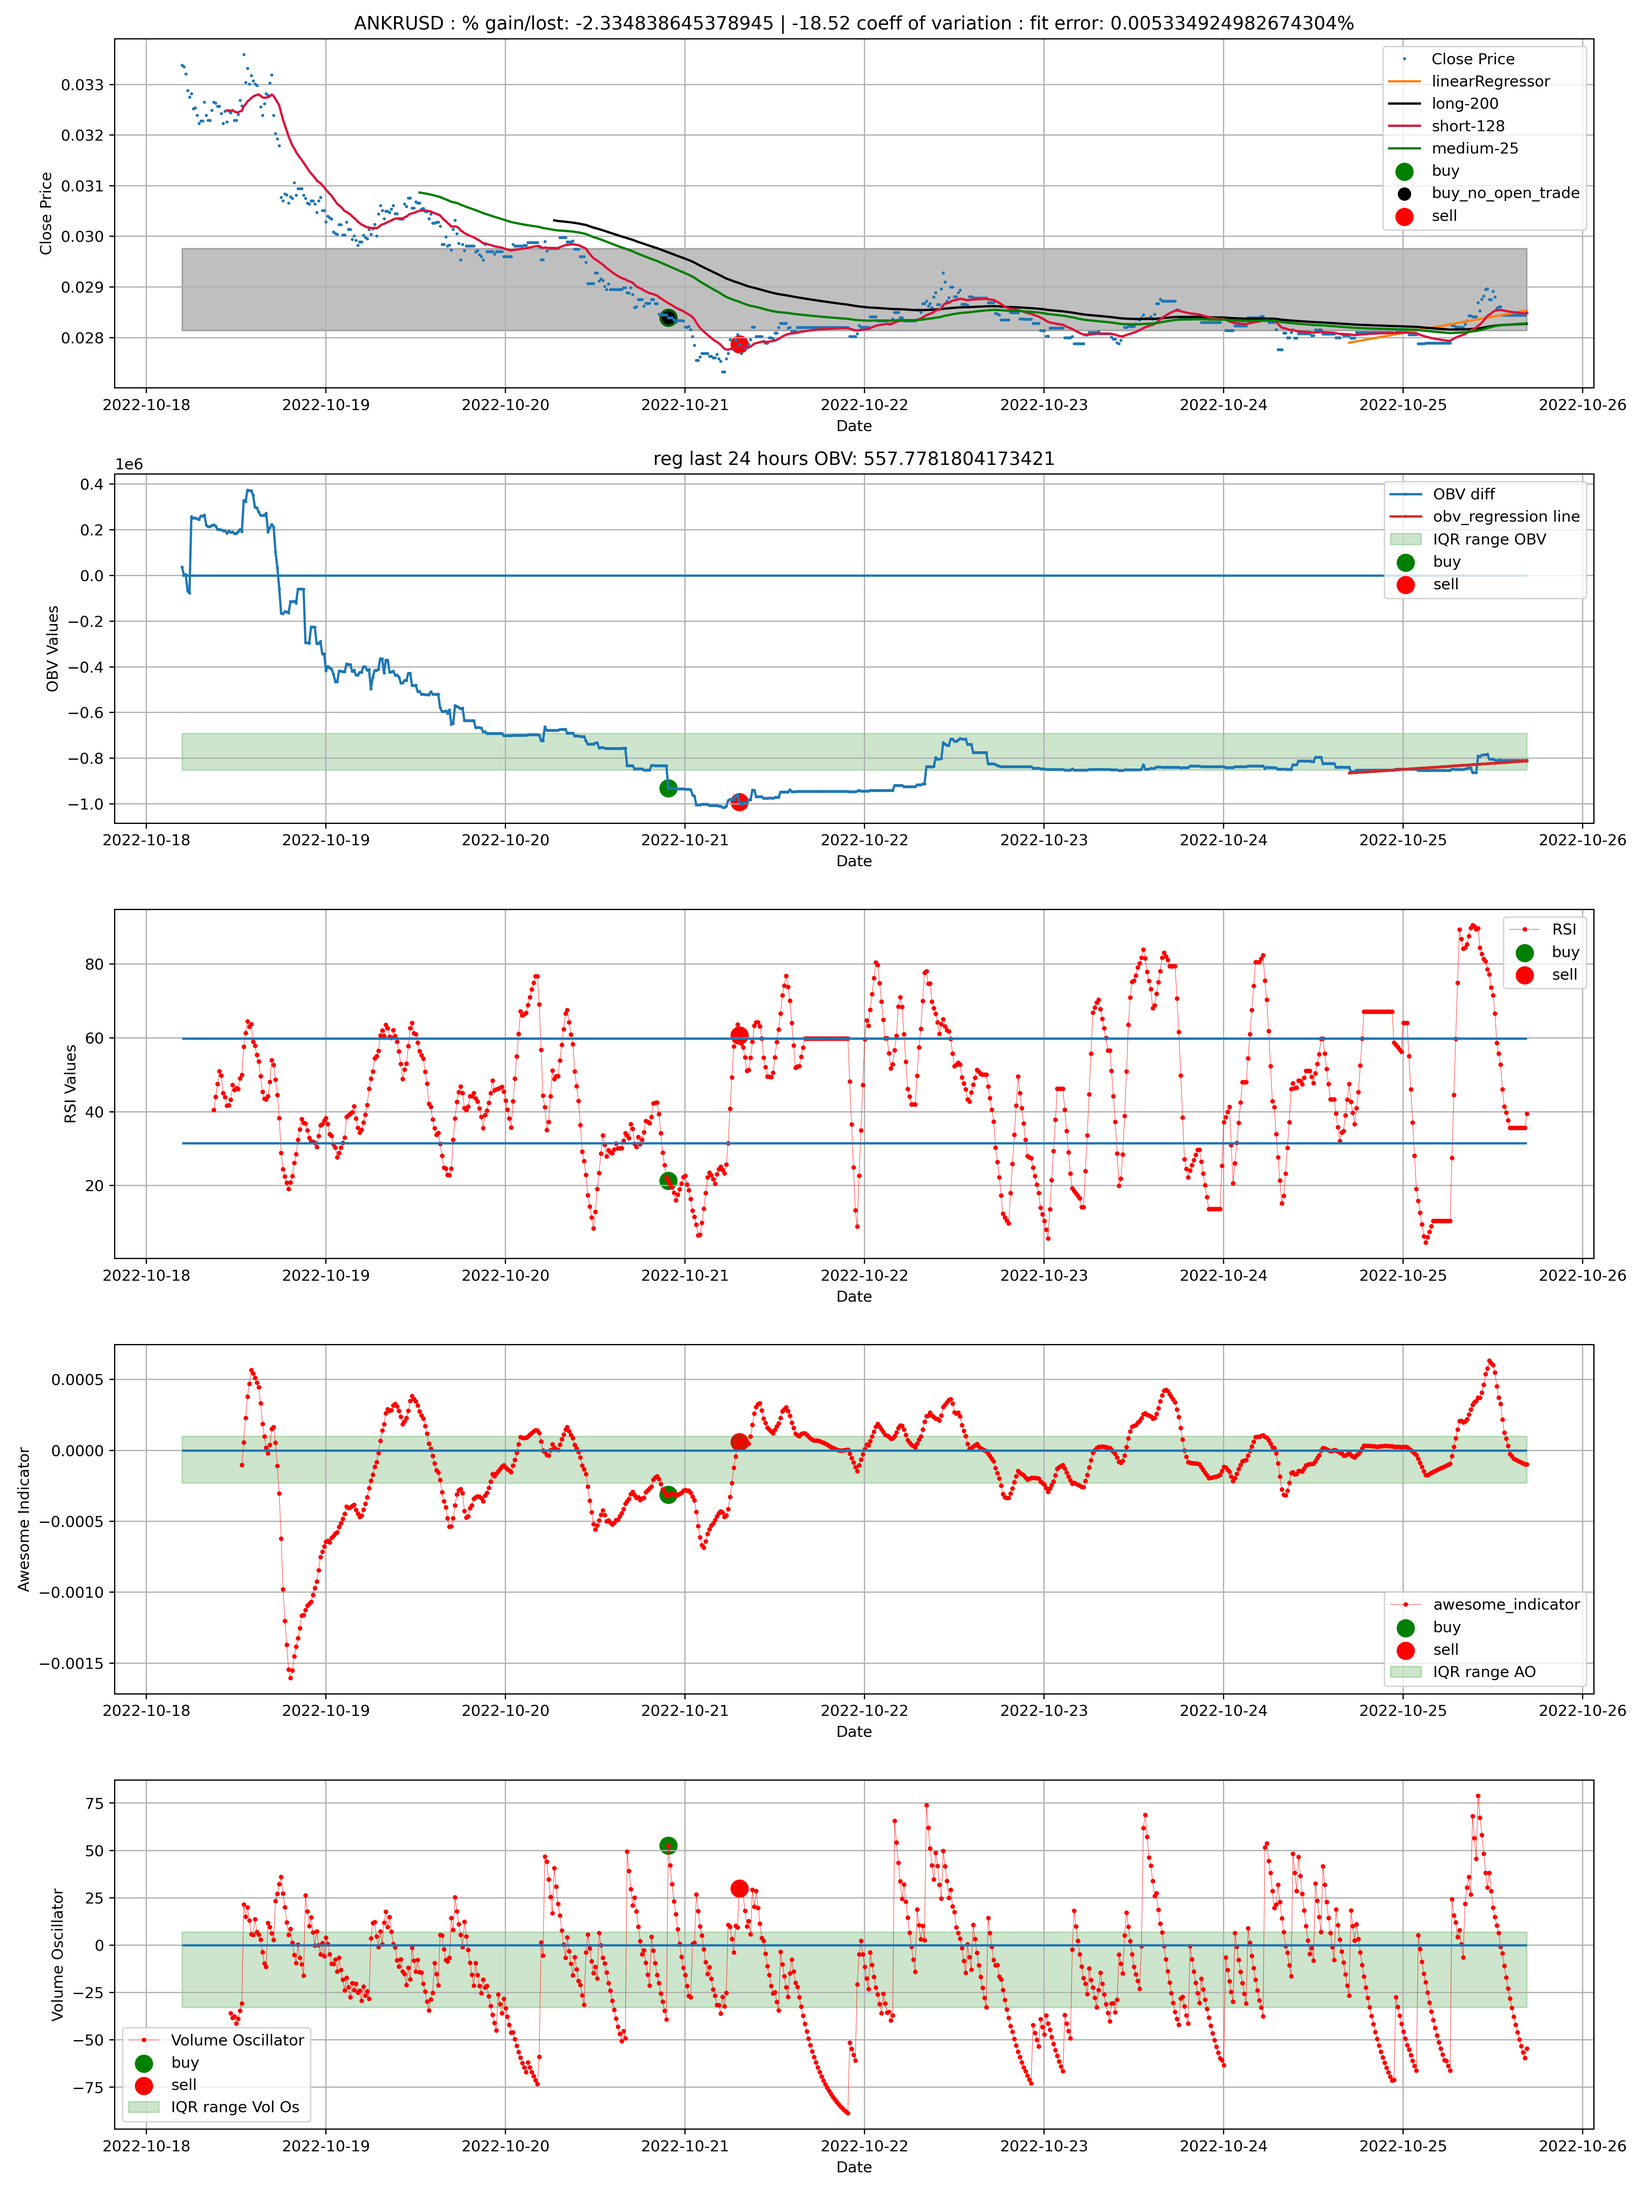
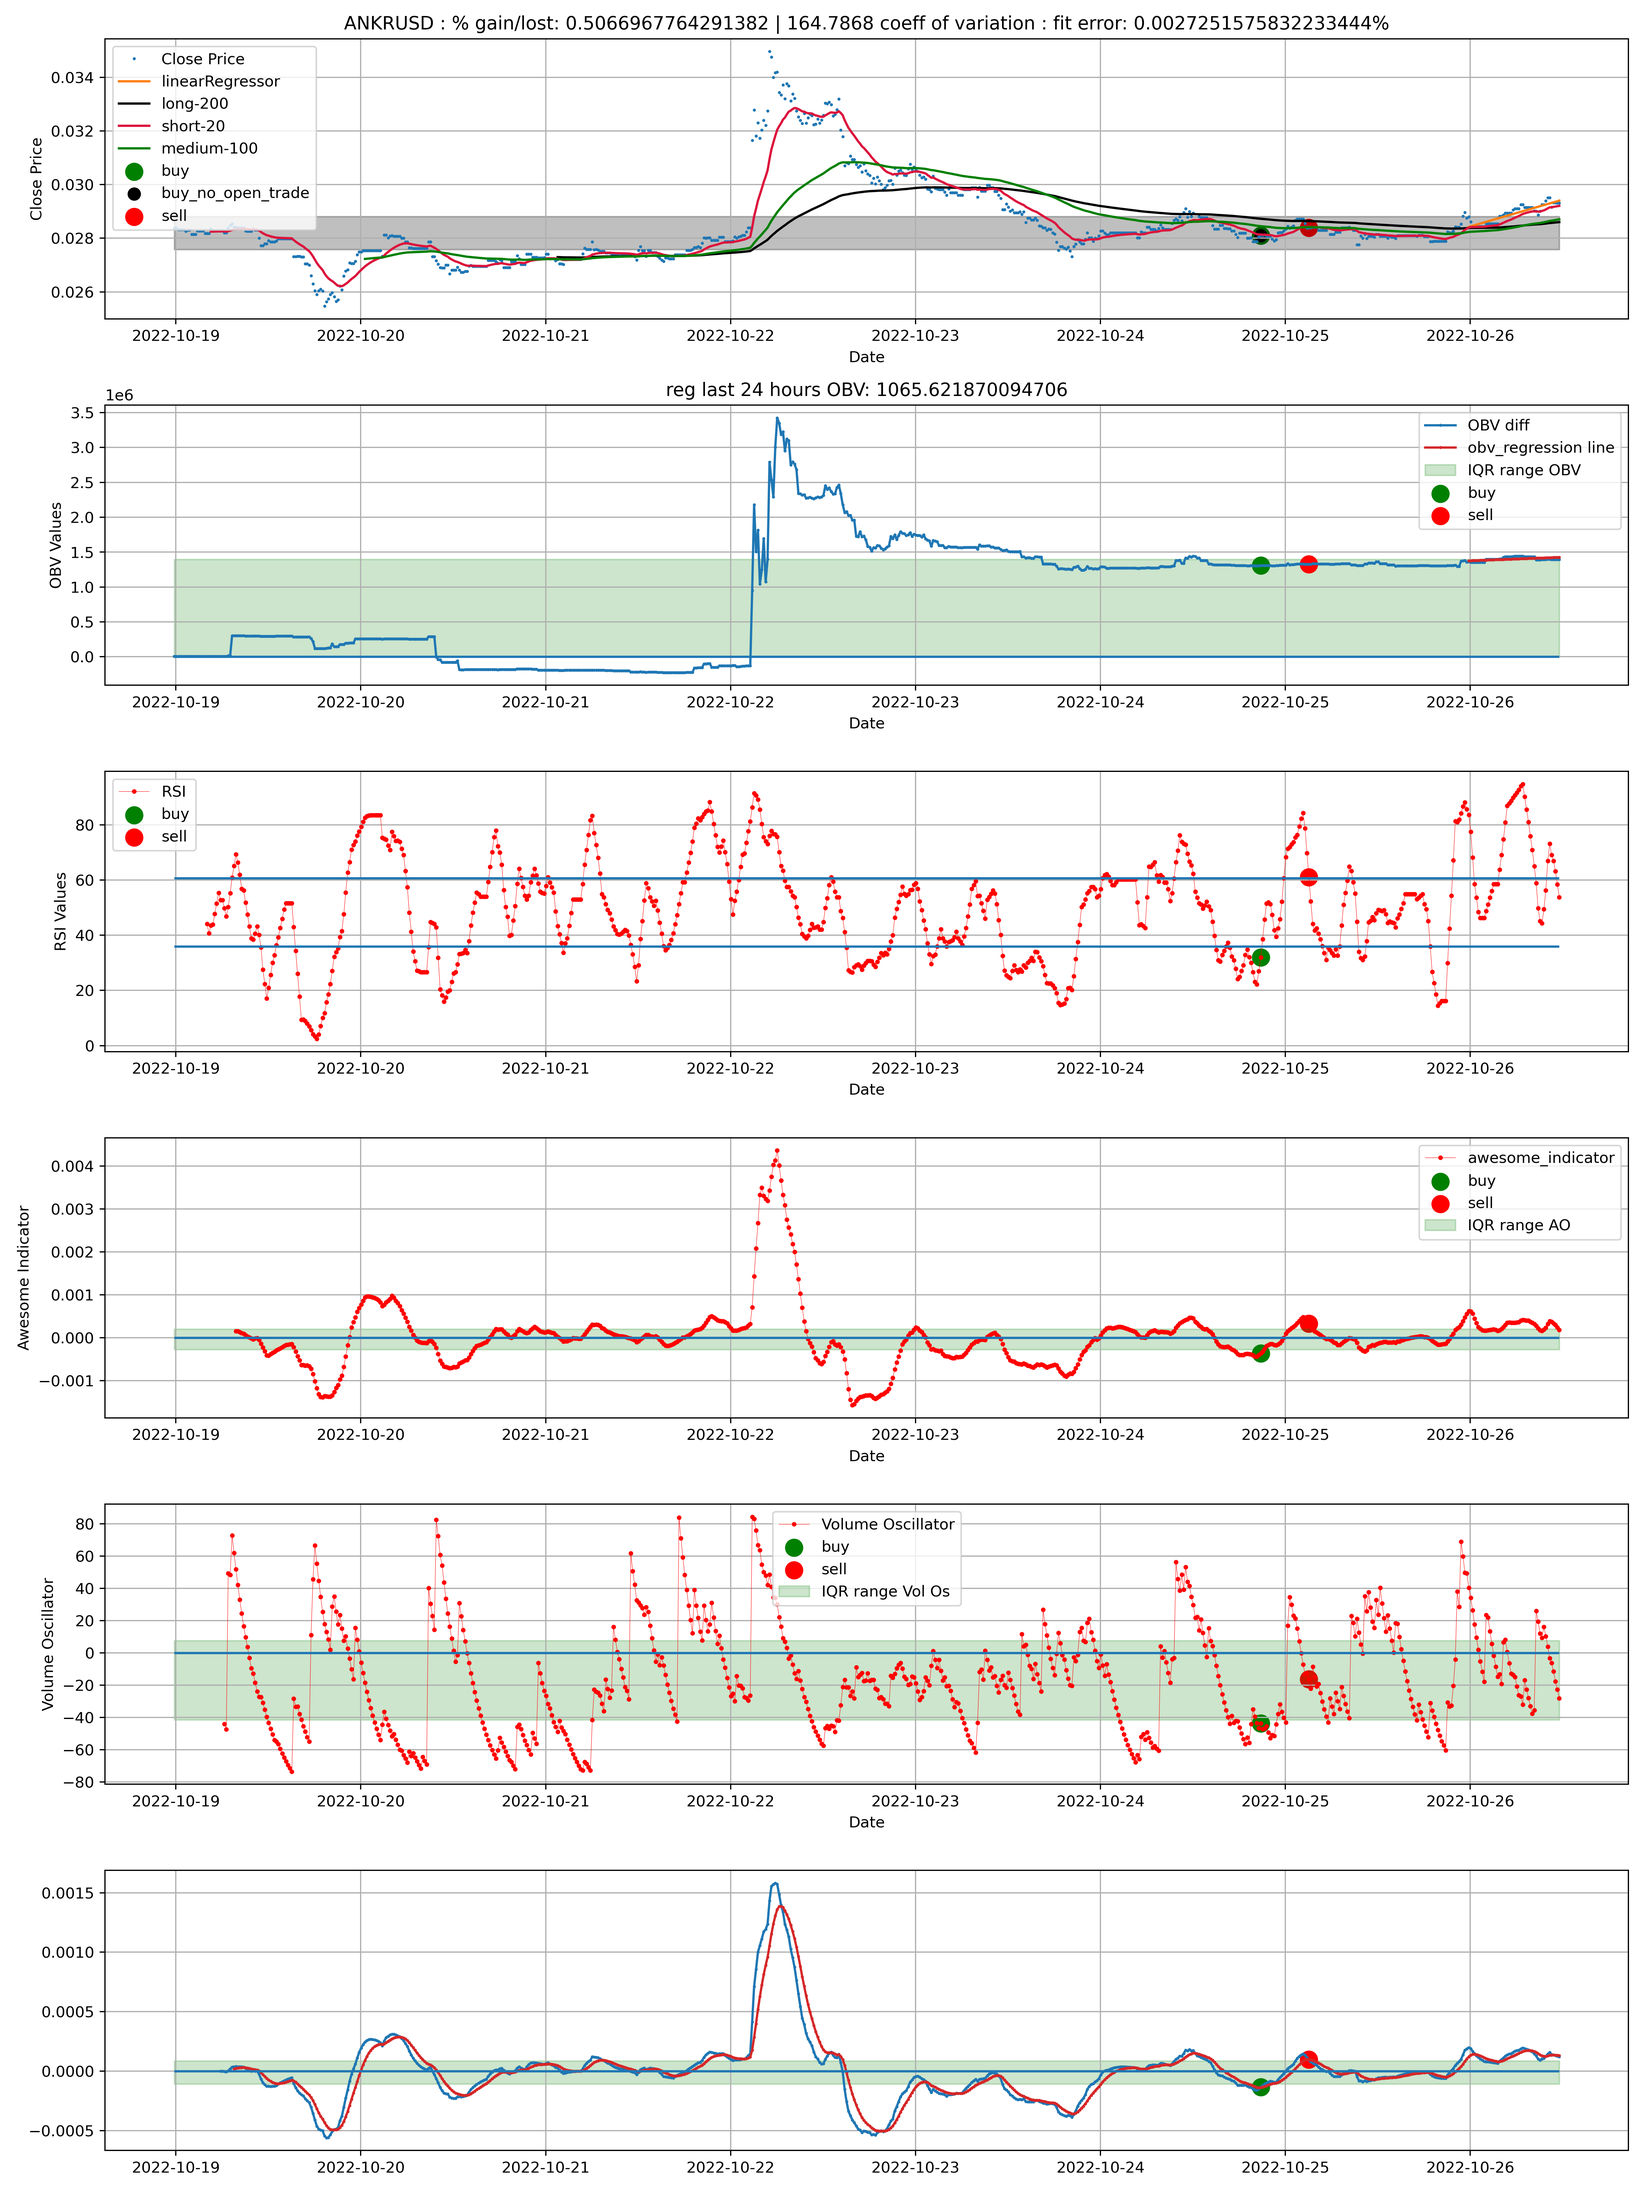
ADD: New data and strategy

diff --git a/technical_analysis.py b/technical_analysis.py
@@ -34,7 +34,7 @@ TODO:
 -convert UTC to PST time
 -change the sell condition to be the crossover points of the MACD or zero crossing of the Awe ind
 """
-SAMPLE_RATE = 15
+SAMPLE_RATE = 30
 logging.basicConfig(filename=join(getcwd(),'errors.log'), level=logging.DEBUG, 
                     format='%(asctime)s %(levelname)s %(name)s %(message)s')
 logger=logging.getLogger(__name__)
@@ -222,8 +222,8 @@ class technical():
             self.q75_Stoch_RSI, self.q25_Stoch_RSI = 0,0
     def moving_averages(self):
         self.q75_close, self.q25_close = percentile(self.data['close'].dropna().values, [75 ,25])
-        self.data['ewmshort'] = self.data['close'].ewm(span=25, min_periods=25).mean() #used to be 50
-        self.data['ewmmedium'] = self.data['close'].ewm(span=128, min_periods=128).mean()
+        self.data['ewmshort'] = self.data['close'].ewm(span=20, min_periods=20).mean() #used to be 50
+        self.data['ewmmedium'] = self.data['close'].ewm(span=100, min_periods=100).mean()
         self.data['ewmlong'] = self.data['close'].ewm(span=200, min_periods=200).mean()
     def aroon_ind(self,lb=25):
         """
@@ -265,7 +265,7 @@ class technical():
         self.data.index = date_range(end=datetime.now(),periods=len(self.data.index),freq="15min")
         # xlim_val = [self.data.index[int((24*60)/SAMPLE_RATE)],self.data.index[-1]]
         x_low_lim = self.data.index[-int((24*60)/SAMPLE_RATE)]
-        fig, ax = plt.subplots(5,1,figsize=(15, 20)) 
+        fig, ax = plt.subplots(6,1,figsize=(15, 20)) 
         buy_df = self.data[~self.data['buy'].isnull()]
         sell_df = self.data[~self.data['sell'].isnull()]
         #plot close price
@@ -275,8 +275,8 @@ class technical():
                markersize=1, linestyle='', label = 'Close Price')
         ax[0].plot(self.data.index,self.reg_arr_half,'tab:orange',label = 'linearRegressor')
         ax[0].plot(self.data.index, self.data['ewmlong'], 'black', label = 'long-200')
-        ax[0].plot(self.data.index, self.data['ewmshort'], 'crimson', label = 'short-128')
-        ax[0].plot(self.data.index, self.data['ewmmedium'], 'green', label = 'medium-25')
+        ax[0].plot(self.data.index, self.data['ewmshort'], 'crimson', label = 'short-20')
+        ax[0].plot(self.data.index, self.data['ewmmedium'], 'green', label = 'medium-100')
         ax[0].scatter(self.data.index, self.data['buy'], marker='o', s=120, color = 'g', label = 'buy')
         ax[0].scatter(self.data.index, self.data['buy_no_condition'], marker='o', s=60, color = 'black', label = 'buy_no_open_trade')
         ax[0].scatter(self.data.index, self.data['sell'], marker='o', s=120, color = 'r', label = 'sell')
@@ -287,7 +287,7 @@ class technical():
         # ax[0].set_xlim(left=x_low_lim)
         ax[0].set_xlabel('Date')
         ax[0].set_ylabel('Close Price')
-        #plot macd
+        #plot OBS
         ax[1].plot(self.data.index, self.data['OBV'], 'tab:blue', marker="o",
                         markersize=1, linestyle='-', label = 'OBV diff')
         ax[1].plot(self.data.index, self.reg_obv, 'tab:red', marker="o",
@@ -347,6 +347,17 @@ class technical():
         ax[4].set_xlabel('Date')
         ax[4].set_ylabel('Volume Oscillator')
         ax[4].grid(True)
+        #PLOT MACD
+        ax[5].plot(self.data.index, self.data['macd_diff'], 'tab:blue', marker="o",
+                        markersize=1, linestyle='-', label = 'MACD diff')
+        ax[5].plot(self.data.index, self.data['signal_line'], 'tab:red', marker="o",
+                        markersize=1, linestyle='-', label = 'Signal line')
+        ax[5].fill_between(self.data.index, self.q75_macd, self.q25_macd, color='green',
+                          alpha=0.2,label='IQR range MACD')
+        ax[5].scatter(buy_df.index, buy_df['macd_diff'], marker='o', s=120, color = 'g', label = 'buy')
+        ax[5].scatter(sell_df.index, sell_df['signal_line'], marker='o', s=120, color = 'r', label = 'sell')
+        ax[5].hlines(y = 0, xmin=self.data.index[0], xmax=self.data.index[-1])
+        ax[5].grid(True)
         save_name = name + '.png'
         direct = getcwd()
         final_dir = join(direct, 'technical_analysis', save_name)
@@ -380,15 +391,20 @@ class technical():
                 # (self.coef_variation < self.ub_coef_deter)
                 # (self.coef_variation > self.lb_coef_deter) and #maybe volatitlity is what I want? switching from things within the IQR to things above
                 # (self.coef_variation > self.ub_coef_deter)
-                # (self.obv_reg.coef_[0] > 0) and
-                # (self.data['close'].iloc[0] < self.q25_close)
-                (self.data['OBV'].iloc[o] < self.q25_OBV) and
-                (self.data['volume_os'].iloc[o-1] <= 0) and
-                (self.data['volume_os'].iloc[o] >= self.q75_vol_os) and
-                (self.data['volume_os'].iloc[o-1] <= self.q25_vol_os) and
-                (self.data['RSI'].iloc[o] < self.q25) and
-                (self.data['ao'].iloc[o-1] < self.data['ao'].iloc[o]) and
-                (self.data['ao'].iloc[o] < self.q25_ao)
+                #######################KEEP THIS STRATEGY - IT MAY WORK, JUST NEVER TRADES
+                # (self.data['OBV'].iloc[o] < self.q25_OBV) and
+                # (self.data['volume_os'].iloc[o-1] <= 0) and
+                # (self.data['volume_os'].iloc[o] >= self.q75_vol_os) and
+                # (self.data['volume_os'].iloc[o-1] <= self.q25_vol_os) and
+                # (self.data['RSI'].iloc[o] < self.q25) and
+                # (self.data['ao'].iloc[o-1] < self.data['ao'].iloc[o]) and
+                # (self.data['ao'].iloc[o] < self.q25_ao)
+                #######################
+                (self.data['macd_diff'].iloc[o-1] < self.data['signal_line'].iloc[o-1]) and
+                (self.data['macd_diff'].iloc[o] > self.data['signal_line'].iloc[o]) and
+                (self.data['volume_os'].iloc[o] <= self.q25_vol_os) and
+                (self.data['RSI'].iloc[o] <= self.q25) and
+                (self.data['macd_diff'].iloc[o] <= self.q25_macd) 
                 ):
                     self.buy_for_trading = o
                     self.data['buy_no_condition'].iloc[o] = self.data['close'].iloc[o]
@@ -404,10 +420,18 @@ class technical():
             #TODO change the sell condition to zero crossing of the Awe ind
             if (
                 (open_trade == False) and
-                (self.data['RSI'].iloc[o] > self.q75)
+                (self.data['macd_diff'].iloc[o-1] > self.data['signal_line'].iloc[o-1]) and
+                (self.data['macd_diff'].iloc[o] < self.data['signal_line'].iloc[o]) and
+                (self.data['macd_diff'].iloc[o] > self.q75_macd)
+                #I like this
+                # (open_trade == False) and
+                # (self.data['RSI'].iloc[o] > self.q75)
+                # ):
+                # if (
+                # (self.data['RSI'].iloc[o-1] > self.data['RSI'].iloc[o]) or 
+                # (self.data['RSI'].iloc[o-1] ==  self.data['RSI'].iloc[o])
+                # 
                 ):
-                if ((self.data['RSI'].iloc[o-1] > self.data['RSI'].iloc[o]) or 
-                (self.data['RSI'].iloc[o-1] ==  self.data['RSI'].iloc[o])):
                     self.data['sell'].iloc[o] = self.data['close'].iloc[o]
                     simulate_fees_buy = buy_price * 0.0026
                     simulate_fees_sell = self.data['close'].iloc[o] * 0.0026
@@ -468,15 +492,22 @@ class technical():
     def check_sell(self,name,volume_inst,ask_price,threshold,count_iter_hold,thresh_sell):
         curr_ask = float((self.kraken.get_ticker_information(name))['a'][0][0])
         print(f'current ask: {curr_ask} : {threshold} threshold')
-        if  (threshold < curr_ask):
+        if ((self.data['macd_diff'].iloc[-2] > self.data['signal_line'].iloc[-2]) and
+        (self.data['macd_diff'].iloc[-1] < self.data['signal_line'].iloc[-1]) and
+        (self.data['macd_diff'].iloc[-1] > self.q75_macd)
+        ):
             balance = self.kraken.get_account_balance()
             basic_sell(name, self.kraken, volume_inst, balance)
             return 'sold'
-        if (thresh_sell > curr_ask):
-        # if count_iter_hold > self.average_pos_hold:
-            balance = self.kraken.get_account_balance()
-            basic_sell(name, self.kraken, volume_inst, balance)
-            return 'sold'
+        # if  (threshold < curr_ask):
+        #     balance = self.kraken.get_account_balance()
+        #     basic_sell(name, self.kraken, volume_inst, balance)
+        #     return 'sold'
+        # if (thresh_sell > curr_ask):
+        # # if count_iter_hold > self.average_pos_hold:
+        #     balance = self.kraken.get_account_balance()
+        #     basic_sell(name, self.kraken, volume_inst, balance)
+        #     return 'sold'
         return 'not sold'
     def run_analysis_pos_crypt(self):
         self.average_pos_hold = 76
@@ -507,7 +538,7 @@ class technical():
                 self.trade()
                 # if self.coef_variation != 'nan':
                 save_hist.append(self.coef_variation)
-                if (len(self.data) - self.buy_for_trading < int(len(self.data)/1.5)):
+                if (len(self.data) - self.buy_for_trading <(len(self.data)-1)): #int(len(self.data)/1.5)
                     self.plot(name)
                 self.live_trading(name)
                 save_hold_time_temp.append(self.save_time_hold)
